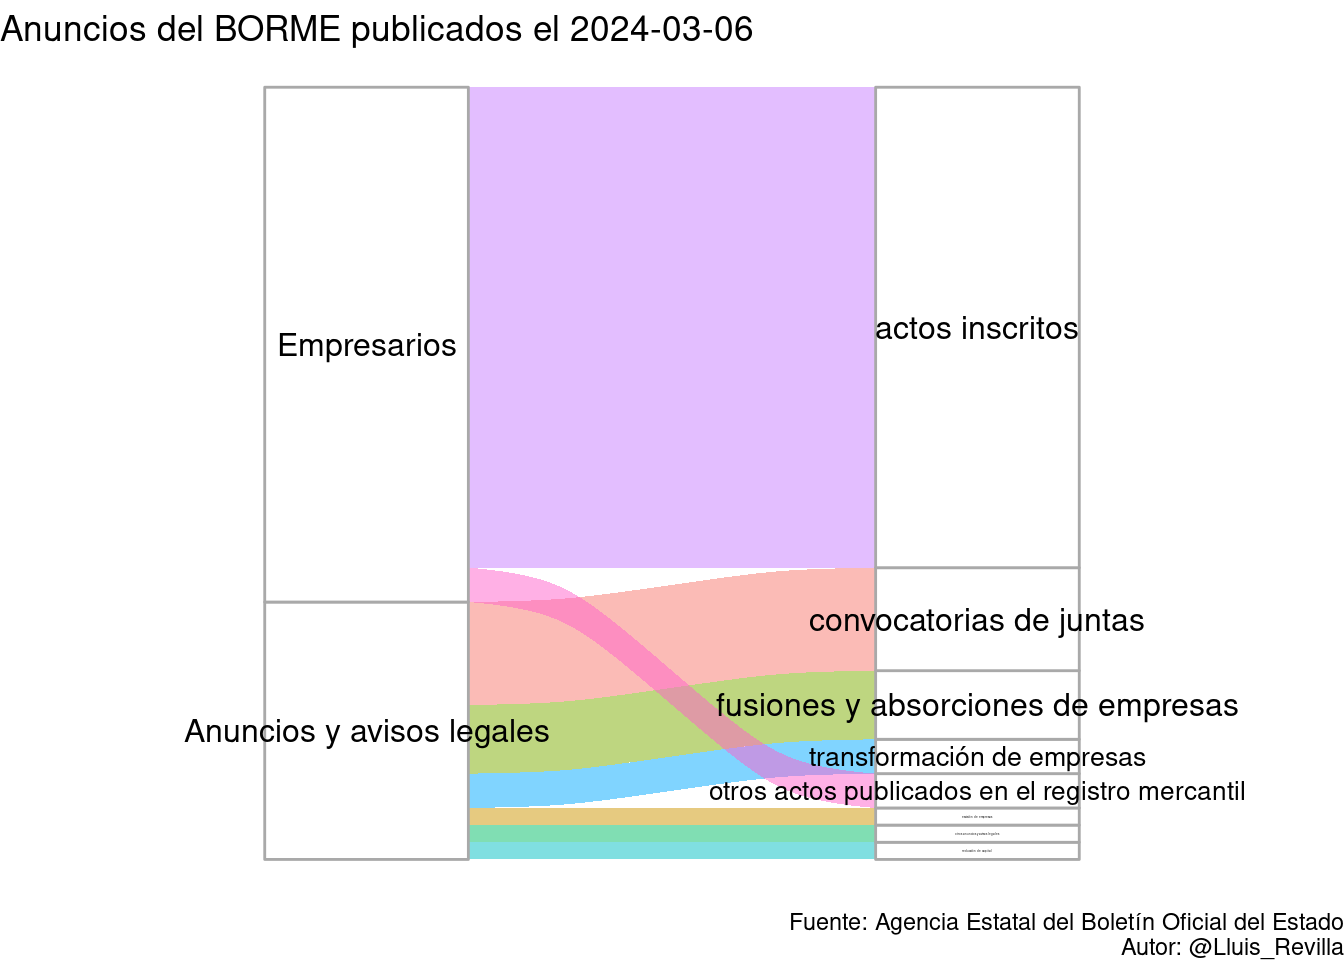
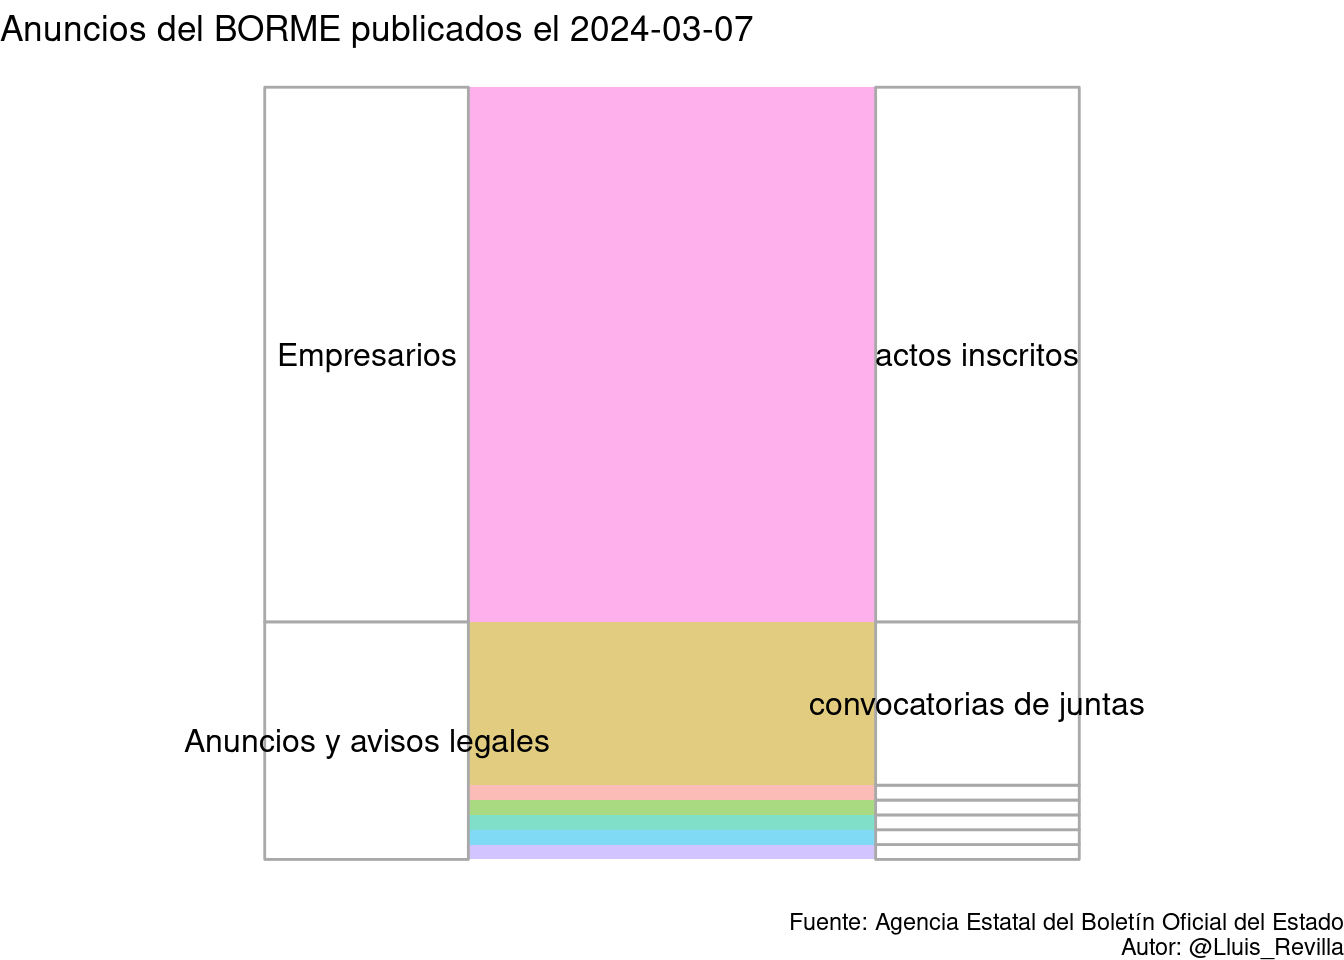
Update BORME

Changed region(s): [[0.125, 0.0938, 0.9375, 0.9062], [0.5312, 0.0, 0.5625, 0.0312]]

diff --git a/docs/last_BORME.html b/docs/last_BORME.html
@@ -379,14 +379,14 @@ $(document).ready(function () {
 
 <div id="resumen-gráfico" class="section level1">
 <h1>Resumen gráfico</h1>
-<p>Esta página web contiene el último sumario del BORME publicado el 2024-03-06 con 45 publicaciones.</p>
+<p>Esta página web contiene el último sumario del BORME publicado el 2024-03-07 con 52 publicaciones.</p>
 <p><img src="last_BORME_files/figure-html/graphics-1.png" width="672" /></p>
 </div>
 <div id="tabla-de-publicaciones" class="section level1">
 <h1>Tabla de publicaciones</h1>
 <p>Aquí está la tabla completa con enlaces a las publicaciones:</p>
-<div class="datatables html-widget html-fill-item-overflow-hidden html-fill-item" id="htmlwidget-90fdb3239c8acbe9fd90" style="width:100%;height:auto;"></div>
-<script type="application/json" data-for="htmlwidget-90fdb3239c8acbe9fd90">{"x":{"filter":"top","vertical":false,"filterHTML":"<tr>\n  <td><\/td>\n  <td data-type=\"character\" style=\"vertical-align: top;\">\n    <div class=\"form-group has-feedback\" style=\"margin-bottom: auto;\">\n      <input type=\"search\" placeholder=\"All\" class=\"form-control\" style=\"width: 100%;\"/>\n      <span class=\"glyphicon glyphicon-remove-circle form-control-feedback\"><\/span>\n    <\/div>\n  <\/td>\n  <td data-type=\"character\" style=\"vertical-align: top;\">\n    <div class=\"form-group has-feedback\" style=\"margin-bottom: auto;\">\n      <input type=\"search\" placeholder=\"All\" class=\"form-control\" style=\"width: 100%;\"/>\n      <span class=\"glyphicon glyphicon-remove-circle form-control-feedback\"><\/span>\n    <\/div>\n  <\/td>\n  <td data-type=\"character\" style=\"vertical-align: top;\">\n    <div class=\"form-group has-feedback\" style=\"margin-bottom: auto;\">\n      <input type=\"search\" placeholder=\"All\" class=\"form-control\" style=\"width: 100%;\" disabled=\"\"/>\n      <span class=\"glyphicon glyphicon-remove-circle form-control-feedback\"><\/span>\n    <\/div>\n  <\/td>\n  <td data-type=\"character\" style=\"vertical-align: top;\">\n    <div class=\"form-group has-feedback\" style=\"margin-bottom: auto;\">\n      <input type=\"search\" placeholder=\"All\" class=\"form-control\" style=\"width: 100%;\"/>\n      <span class=\"glyphicon glyphicon-remove-circle form-control-feedback\"><\/span>\n    <\/div>\n  <\/td>\n<\/tr>","data":[["1","2","3","4","5","6","7","8","9","10","11","12","13","14","15","16","17","18","19","20","21","22","23","24","25","26","27","28","29","30","31","32","33","34","35","36","37","38","39","40","41","42","43","44","45"],["SECCIÓN PRIMERA. Empresarios","SECCIÓN PRIMERA. Empresarios","SECCIÓN PRIMERA. Empresarios","SECCIÓN PRIMERA. Empresarios","SECCIÓN PRIMERA. Empresarios","SECCIÓN PRIMERA. Empresarios","SECCIÓN PRIMERA. Empresarios","SECCIÓN PRIMERA. Empresarios","SECCIÓN PRIMERA. Empresarios","SECCIÓN PRIMERA. Empresarios","SECCIÓN PRIMERA. Empresarios","SECCIÓN PRIMERA. Empresarios","SECCIÓN PRIMERA. Empresarios","SECCIÓN PRIMERA. Empresarios","SECCIÓN PRIMERA. Empresarios","SECCIÓN PRIMERA. Empresarios","SECCIÓN PRIMERA. Empresarios","SECCIÓN PRIMERA. Empresarios","SECCIÓN PRIMERA. Empresarios","SECCIÓN PRIMERA. Empresarios","SECCIÓN PRIMERA. Empresarios","SECCIÓN PRIMERA. Empresarios","SECCIÓN PRIMERA. Empresarios","SECCIÓN PRIMERA. Empresarios","SECCIÓN PRIMERA. Empresarios","SECCIÓN PRIMERA. Empresarios","SECCIÓN PRIMERA. Empresarios","SECCIÓN PRIMERA. Empresarios","SECCIÓN PRIMERA. Empresarios","SECCIÓN PRIMERA. Empresarios","SECCIÓN SEGUNDA. Anuncios y avisos legales","SECCIÓN SEGUNDA. Anuncios y avisos legales","SECCIÓN SEGUNDA. Anuncios y avisos legales","SECCIÓN SEGUNDA. Anuncios y avisos legales","SECCIÓN SEGUNDA. Anuncios y avisos legales","SECCIÓN SEGUNDA. Anuncios y avisos legales","SECCIÓN SEGUNDA. Anuncios y avisos legales","SECCIÓN SEGUNDA. Anuncios y avisos legales","SECCIÓN SEGUNDA. Anuncios y avisos legales","SECCIÓN SEGUNDA. Anuncios y avisos legales","SECCIÓN SEGUNDA. Anuncios y avisos legales","SECCIÓN SEGUNDA. Anuncios y avisos legales","SECCIÓN SEGUNDA. Anuncios y avisos legales","SECCIÓN SEGUNDA. Anuncios y avisos legales","SECCIÓN SEGUNDA. Anuncios y avisos legales"],["Actos inscritos","Actos inscritos","Actos inscritos","Actos inscritos","Actos inscritos","Actos inscritos","Actos inscritos","Actos inscritos","Actos inscritos","Actos inscritos","Actos inscritos","Actos inscritos","Actos inscritos","Actos inscritos","Actos inscritos","Actos inscritos","Actos inscritos","Actos inscritos","Actos inscritos","Actos inscritos","Actos inscritos","Actos inscritos","Actos inscritos","Actos inscritos","Actos inscritos","Actos inscritos","Actos inscritos","Actos inscritos","Otros actos publicados en el Registro Mercantil","Otros actos publicados en el Registro Mercantil","CONVOCATORIAS DE JUNTAS","CONVOCATORIAS DE JUNTAS","CONVOCATORIAS DE JUNTAS","CONVOCATORIAS DE JUNTAS","CONVOCATORIAS DE JUNTAS","CONVOCATORIAS DE JUNTAS","FUSIONES Y ABSORCIONES DE EMPRESAS","FUSIONES Y ABSORCIONES DE EMPRESAS","FUSIONES Y ABSORCIONES DE EMPRESAS","FUSIONES Y ABSORCIONES DE EMPRESAS","ESCISIÓN DE EMPRESAS","TRANSFORMACIÓN DE EMPRESAS","TRANSFORMACIÓN DE EMPRESAS","REDUCCIÓN DE CAPITAL","OTROS ANUNCIOS Y AVISOS LEGALES"],[null,null,null,null,null,null,null,null,null,null,null,null,null,null,null,null,null,null,null,null,null,null,null,null,null,null,null,null,null,null,null,null,null,null,null,null,null,null,null,null,null,null,null,null,null],["BORME-A-2024-47-03","BORME-A-2024-47-06","BORME-A-2024-47-07","BORME-A-2024-47-08","BORME-A-2024-47-12","BORME-A-2024-47-13","BORME-A-2024-47-15","BORME-A-2024-47-17","BORME-A-2024-47-24","BORME-A-2024-47-25","BORME-A-2024-47-26","BORME-A-2024-47-27","BORME-A-2024-47-28","BORME-A-2024-47-29","BORME-A-2024-47-30","BORME-A-2024-47-31","BORME-A-2024-47-33","BORME-A-2024-47-35","BORME-A-2024-47-36","BORME-A-2024-47-37","BORME-A-2024-47-43","BORME-A-2024-47-45","BORME-A-2024-47-46","BORME-A-2024-47-47","BORME-A-2024-47-49","BORME-A-2024-47-50","BORME-A-2024-47-51","BORME-A-2024-47-99","BORME-B-2024-47-25","BORME-B-2024-47-51","BORME-C-2024-713","BORME-C-2024-714","BORME-C-2024-715","BORME-C-2024-716","BORME-C-2024-717","BORME-C-2024-718","BORME-C-2024-719","BORME-C-2024-720","BORME-C-2024-721","BORME-C-2024-722","BORME-C-2024-723","BORME-C-2024-724","BORME-C-2024-725","BORME-C-2024-726","BORME-C-2024-727"]],"container":"<table class=\"display\">\n  <thead>\n    <tr>\n      <th> <\/th>\n      <th>Sección<\/th>\n      <th>Emisor<\/th>\n      <th>Texto<\/th>\n      <th>Link<\/th>\n    <\/tr>\n  <\/thead>\n<\/table>","options":{"pageLength":10,"autoWidth":true,"columnDefs":[{"orderable":false,"targets":0},{"name":" ","targets":0},{"name":"Sección","targets":1},{"name":"Emisor","targets":2},{"name":"Texto","targets":3},{"name":"Link","targets":4}],"order":[],"orderClasses":false,"orderCellsTop":true}},"evals":[],"jsHooks":[]}</script>
+<div class="datatables html-widget html-fill-item-overflow-hidden html-fill-item" id="htmlwidget-defe10c5dead13b1c6f0" style="width:100%;height:auto;"></div>
+<script type="application/json" data-for="htmlwidget-defe10c5dead13b1c6f0">{"x":{"filter":"top","vertical":false,"filterHTML":"<tr>\n  <td><\/td>\n  <td data-type=\"character\" style=\"vertical-align: top;\">\n    <div class=\"form-group has-feedback\" style=\"margin-bottom: auto;\">\n      <input type=\"search\" placeholder=\"All\" class=\"form-control\" style=\"width: 100%;\"/>\n      <span class=\"glyphicon glyphicon-remove-circle form-control-feedback\"><\/span>\n    <\/div>\n  <\/td>\n  <td data-type=\"character\" style=\"vertical-align: top;\">\n    <div class=\"form-group has-feedback\" style=\"margin-bottom: auto;\">\n      <input type=\"search\" placeholder=\"All\" class=\"form-control\" style=\"width: 100%;\"/>\n      <span class=\"glyphicon glyphicon-remove-circle form-control-feedback\"><\/span>\n    <\/div>\n  <\/td>\n  <td data-type=\"character\" style=\"vertical-align: top;\">\n    <div class=\"form-group has-feedback\" style=\"margin-bottom: auto;\">\n      <input type=\"search\" placeholder=\"All\" class=\"form-control\" style=\"width: 100%;\" disabled=\"\"/>\n      <span class=\"glyphicon glyphicon-remove-circle form-control-feedback\"><\/span>\n    <\/div>\n  <\/td>\n  <td data-type=\"character\" style=\"vertical-align: top;\">\n    <div class=\"form-group has-feedback\" style=\"margin-bottom: auto;\">\n      <input type=\"search\" placeholder=\"All\" class=\"form-control\" style=\"width: 100%;\"/>\n      <span class=\"glyphicon glyphicon-remove-circle form-control-feedback\"><\/span>\n    <\/div>\n  <\/td>\n<\/tr>","data":[["1","2","3","4","5","6","7","8","9","10","11","12","13","14","15","16","17","18","19","20","21","22","23","24","25","26","27","28","29","30","31","32","33","34","35","36","37","38","39","40","41","42","43","44","45","46","47","48","49","50","51","52"],["SECCIÓN PRIMERA. Empresarios","SECCIÓN PRIMERA. Empresarios","SECCIÓN PRIMERA. Empresarios","SECCIÓN PRIMERA. Empresarios","SECCIÓN PRIMERA. Empresarios","SECCIÓN PRIMERA. Empresarios","SECCIÓN PRIMERA. Empresarios","SECCIÓN PRIMERA. Empresarios","SECCIÓN PRIMERA. Empresarios","SECCIÓN PRIMERA. Empresarios","SECCIÓN PRIMERA. Empresarios","SECCIÓN PRIMERA. Empresarios","SECCIÓN PRIMERA. Empresarios","SECCIÓN PRIMERA. Empresarios","SECCIÓN PRIMERA. Empresarios","SECCIÓN PRIMERA. Empresarios","SECCIÓN PRIMERA. Empresarios","SECCIÓN PRIMERA. Empresarios","SECCIÓN PRIMERA. Empresarios","SECCIÓN PRIMERA. Empresarios","SECCIÓN PRIMERA. Empresarios","SECCIÓN PRIMERA. Empresarios","SECCIÓN PRIMERA. Empresarios","SECCIÓN PRIMERA. Empresarios","SECCIÓN PRIMERA. Empresarios","SECCIÓN PRIMERA. Empresarios","SECCIÓN PRIMERA. Empresarios","SECCIÓN PRIMERA. Empresarios","SECCIÓN PRIMERA. Empresarios","SECCIÓN PRIMERA. Empresarios","SECCIÓN PRIMERA. Empresarios","SECCIÓN PRIMERA. Empresarios","SECCIÓN PRIMERA. Empresarios","SECCIÓN PRIMERA. Empresarios","SECCIÓN PRIMERA. Empresarios","SECCIÓN PRIMERA. Empresarios","SECCIÓN SEGUNDA. Anuncios y avisos legales","SECCIÓN SEGUNDA. Anuncios y avisos legales","SECCIÓN SEGUNDA. Anuncios y avisos legales","SECCIÓN SEGUNDA. Anuncios y avisos legales","SECCIÓN SEGUNDA. Anuncios y avisos legales","SECCIÓN SEGUNDA. Anuncios y avisos legales","SECCIÓN SEGUNDA. Anuncios y avisos legales","SECCIÓN SEGUNDA. Anuncios y avisos legales","SECCIÓN SEGUNDA. Anuncios y avisos legales","SECCIÓN SEGUNDA. Anuncios y avisos legales","SECCIÓN SEGUNDA. Anuncios y avisos legales","SECCIÓN SEGUNDA. Anuncios y avisos legales","SECCIÓN SEGUNDA. Anuncios y avisos legales","SECCIÓN SEGUNDA. Anuncios y avisos legales","SECCIÓN SEGUNDA. Anuncios y avisos legales","SECCIÓN SEGUNDA. Anuncios y avisos legales"],["Actos inscritos","Actos inscritos","Actos inscritos","Actos inscritos","Actos inscritos","Actos inscritos","Actos inscritos","Actos inscritos","Actos inscritos","Actos inscritos","Actos inscritos","Actos inscritos","Actos inscritos","Actos inscritos","Actos inscritos","Actos inscritos","Actos inscritos","Actos inscritos","Actos inscritos","Actos inscritos","Actos inscritos","Actos inscritos","Actos inscritos","Actos inscritos","Actos inscritos","Actos inscritos","Actos inscritos","Actos inscritos","Actos inscritos","Actos inscritos","Actos inscritos","Actos inscritos","Actos inscritos","Actos inscritos","Actos inscritos","Actos inscritos","BALANCES","CONVOCATORIAS DE JUNTAS","CONVOCATORIAS DE JUNTAS","CONVOCATORIAS DE JUNTAS","CONVOCATORIAS DE JUNTAS","CONVOCATORIAS DE JUNTAS","CONVOCATORIAS DE JUNTAS","CONVOCATORIAS DE JUNTAS","CONVOCATORIAS DE JUNTAS","CONVOCATORIAS DE JUNTAS","CONVOCATORIAS DE JUNTAS","CONVOCATORIAS DE JUNTAS","FUSIONES Y ABSORCIONES DE EMPRESAS","REACTIVACIÓN DE EMPRESAS","TRANSFORMACIÓN DE EMPRESAS","REDUCCIÓN DE CAPITAL"],[null,null,null,null,null,null,null,null,null,null,null,null,null,null,null,null,null,null,null,null,null,null,null,null,null,null,null,null,null,null,null,null,null,null,null,null,null,null,null,null,null,null,null,null,null,null,null,null,null,null,null,null],["BORME-A-2024-48-01","BORME-A-2024-48-02","BORME-A-2024-48-03","BORME-A-2024-48-06","BORME-A-2024-48-07","BORME-A-2024-48-08","BORME-A-2024-48-09","BORME-A-2024-48-11","BORME-A-2024-48-14","BORME-A-2024-48-15","BORME-A-2024-48-16","BORME-A-2024-48-17","BORME-A-2024-48-18","BORME-A-2024-48-22","BORME-A-2024-48-23","BORME-A-2024-48-24","BORME-A-2024-48-25","BORME-A-2024-48-28","BORME-A-2024-48-29","BORME-A-2024-48-30","BORME-A-2024-48-31","BORME-A-2024-48-32","BORME-A-2024-48-34","BORME-A-2024-48-35","BORME-A-2024-48-36","BORME-A-2024-48-38","BORME-A-2024-48-39","BORME-A-2024-48-42","BORME-A-2024-48-43","BORME-A-2024-48-45","BORME-A-2024-48-46","BORME-A-2024-48-47","BORME-A-2024-48-48","BORME-A-2024-48-50","BORME-A-2024-48-51","BORME-A-2024-48-99","BORME-C-2024-728","BORME-C-2024-729","BORME-C-2024-730","BORME-C-2024-731","BORME-C-2024-732","BORME-C-2024-733","BORME-C-2024-734","BORME-C-2024-735","BORME-C-2024-736","BORME-C-2024-737","BORME-C-2024-738","BORME-C-2024-739","BORME-C-2024-740","BORME-C-2024-741","BORME-C-2024-742","BORME-C-2024-743"]],"container":"<table class=\"display\">\n  <thead>\n    <tr>\n      <th> <\/th>\n      <th>Sección<\/th>\n      <th>Emisor<\/th>\n      <th>Texto<\/th>\n      <th>Link<\/th>\n    <\/tr>\n  <\/thead>\n<\/table>","options":{"pageLength":10,"autoWidth":true,"columnDefs":[{"orderable":false,"targets":0},{"name":" ","targets":0},{"name":"Sección","targets":1},{"name":"Emisor","targets":2},{"name":"Texto","targets":3},{"name":"Link","targets":4}],"order":[],"orderClasses":false,"orderCellsTop":true}},"evals":[],"jsHooks":[]}</script>
 </div>
 
 
